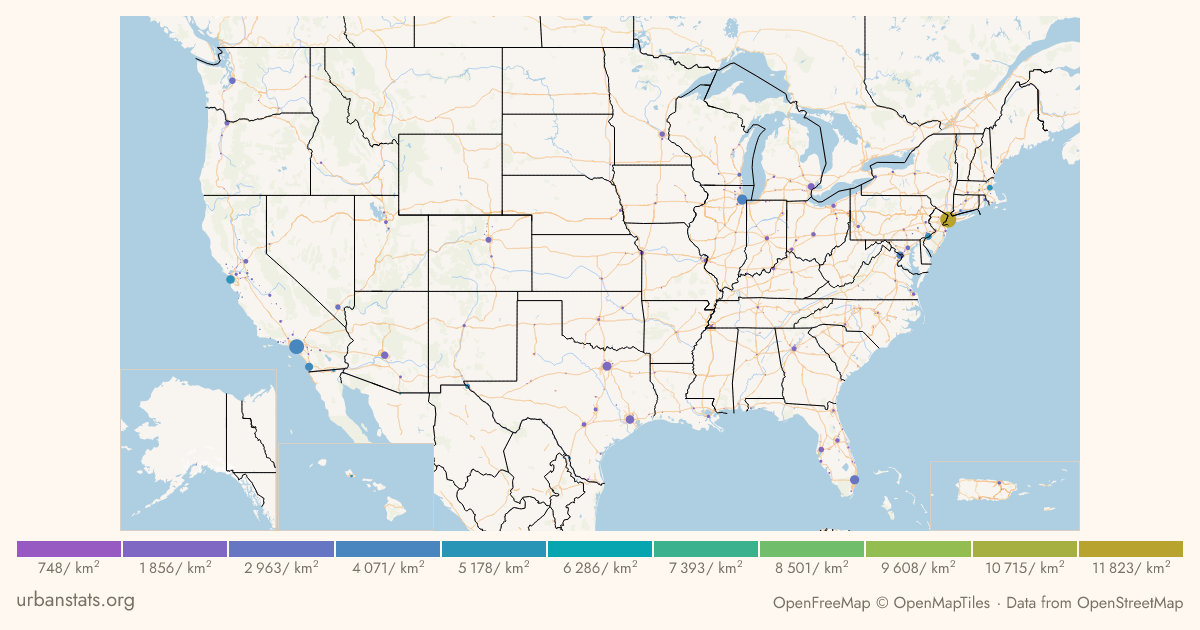
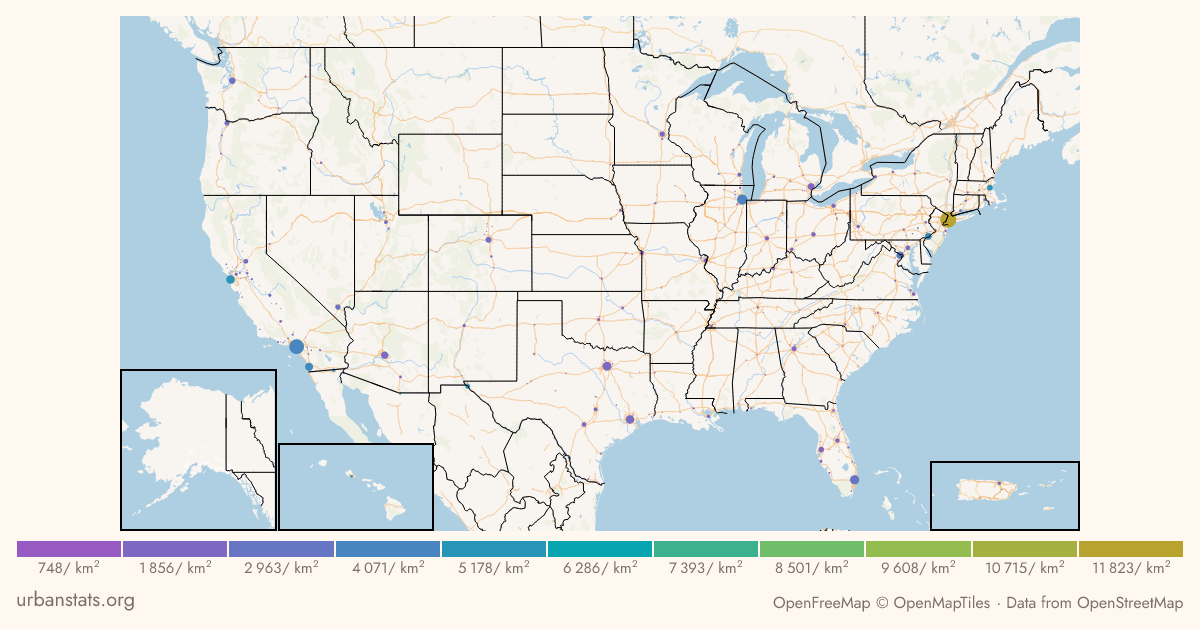
Draw a card's inset borders the way the page draws them
2px of mapInsetBorderColor rather than 1px of the card's own rule colour,
which was too pale to read as a frame.

The card's background and inset border now come from color-themes rather
than from copies of their values; it takes the light theme, being a fixed
image wherever it is unfurled. The rest of its palette stays its own, having
nothing on the site to take it from. insetBorderWidth is a copy, since
importing map-common would pull maplibre into the Worker's bundle.

diff --git a/react/cf-og-worker/src/embed.tsx b/react/cf-og-worker/src/embed.tsx
@@ -9,6 +9,7 @@ import { percentileSuffix } from '../../src/components/display-stats'
 import { getUnitDisplay } from '../../src/components/unit-display'
 import flagDimensions from '../../src/data/flag_dimensions'
 import { canonicalWidth } from '../../src/mapper/map-rendering'
+import { colorThemes } from '../../src/page_template/color-themes'
 import { pieSlicePath, pieSlices } from '../../src/syau/cluster-geometry'
 import { Inset } from '../../src/urban-stats-script/constants/insets'
 import { computeAspectRatioForInsets } from '../../src/utils/coordinates'
@@ -55,15 +56,24 @@ function installHooks(): void {
     }
 }
 
-/* eslint-disable no-restricted-syntax -- The card is a fixed light image wherever it is unfurled, so it has no theme. */
+// The card is a fixed image wherever it is unfurled, so it takes the light theme rather than a
+// viewer's. The rest of its palette is its own: the card has no counterpart on the site to take
+// them from.
+const theme = colorThemes['Light Mode']
+
+/* eslint-disable no-restricted-syntax -- Only the ones the site has no colour for. */
 const colors = {
-    background: '#fff8f0',
+    background: theme.background,
     text: '#1e1e1e',
     muted: '#7a7268',
     rule: '#d8cfc4',
     shape: '#5a6ebd',
+    insetBorder: theme.mapInsetBorderColor,
 }
 /* eslint-enable no-restricted-syntax */
+
+// insetBorderWidth in map-common, which the Worker cannot import: it would pull maplibre in.
+const insetBorderWidth = 2
 
 // openfreemap's credit line, as its TileJSON states it.
 const tileAttribution = 'OpenFreeMap © OpenMapTiles · Data from OpenStreetMap'
@@ -254,7 +264,7 @@ async function insetImage(map: MapCard, inset: Inset, box: { width: number, heig
             src={mapImage(content, width, height)}
             width={width}
             height={height}
-            style={inset.mainMap ? {} : { border: `1px solid ${colors.rule}` }}
+            style={inset.mainMap ? {} : { border: `${insetBorderWidth}px solid ${colors.insetBorder}` }}
         />
     )
 }
